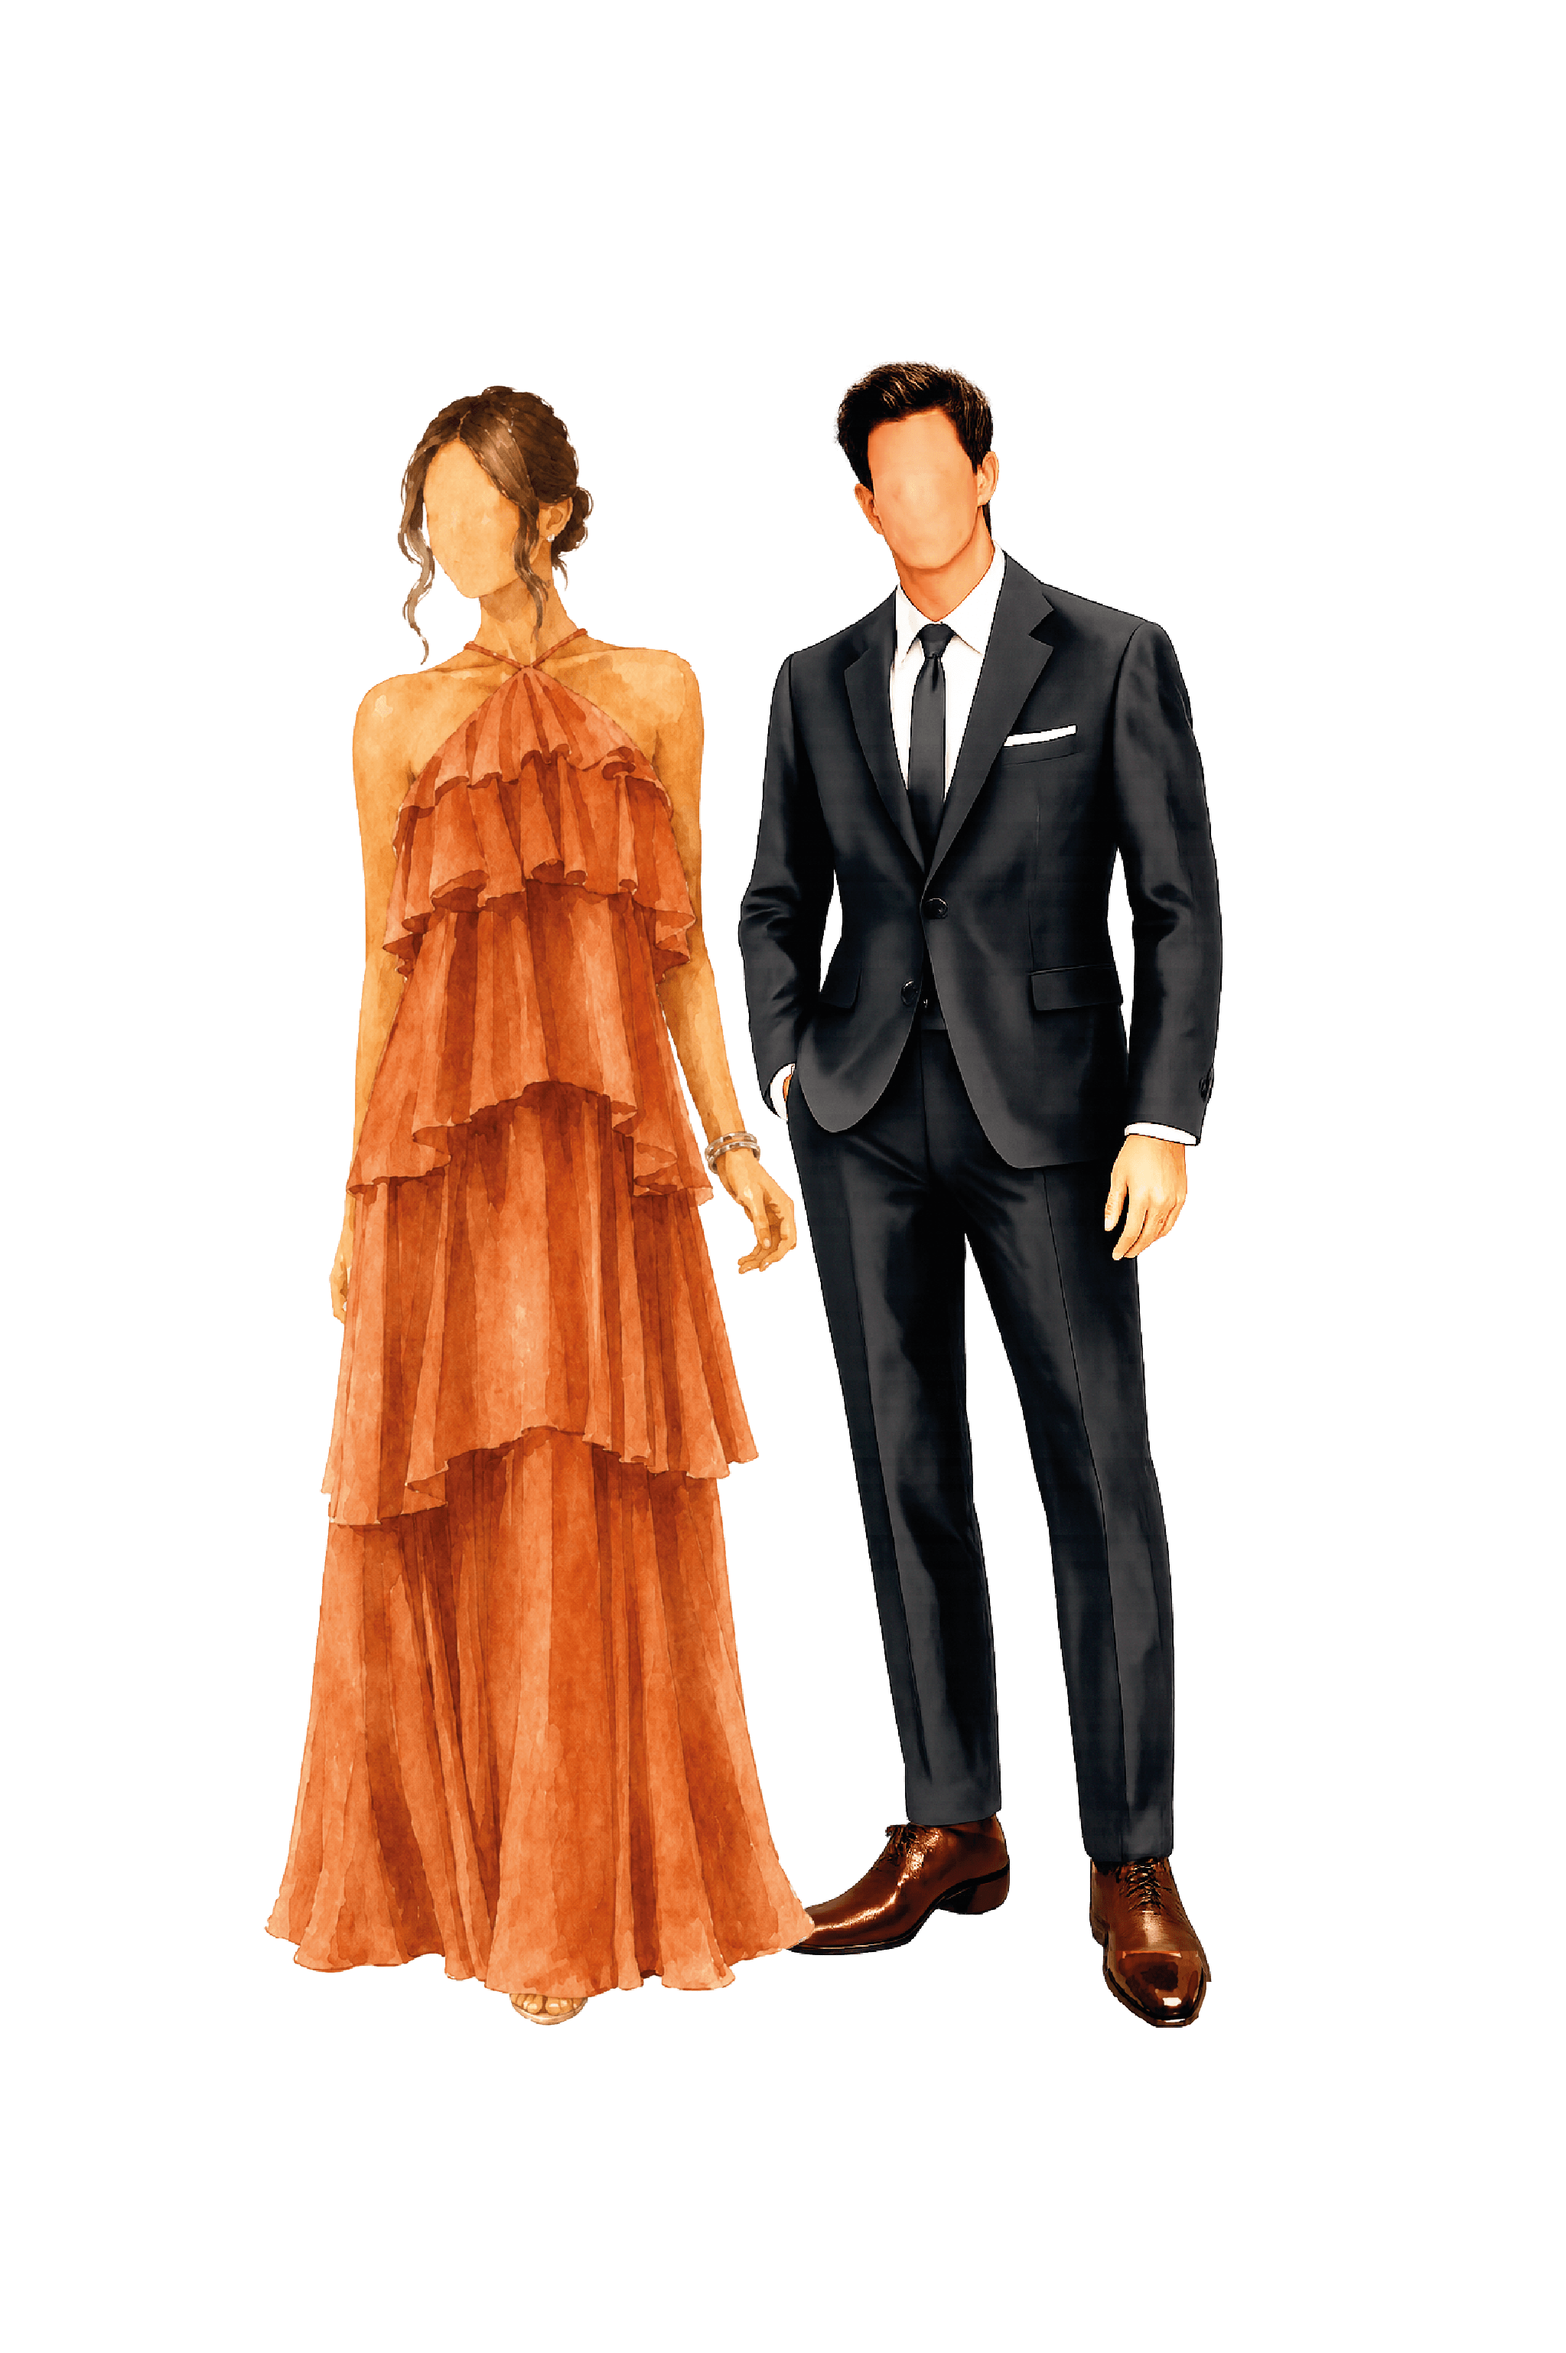
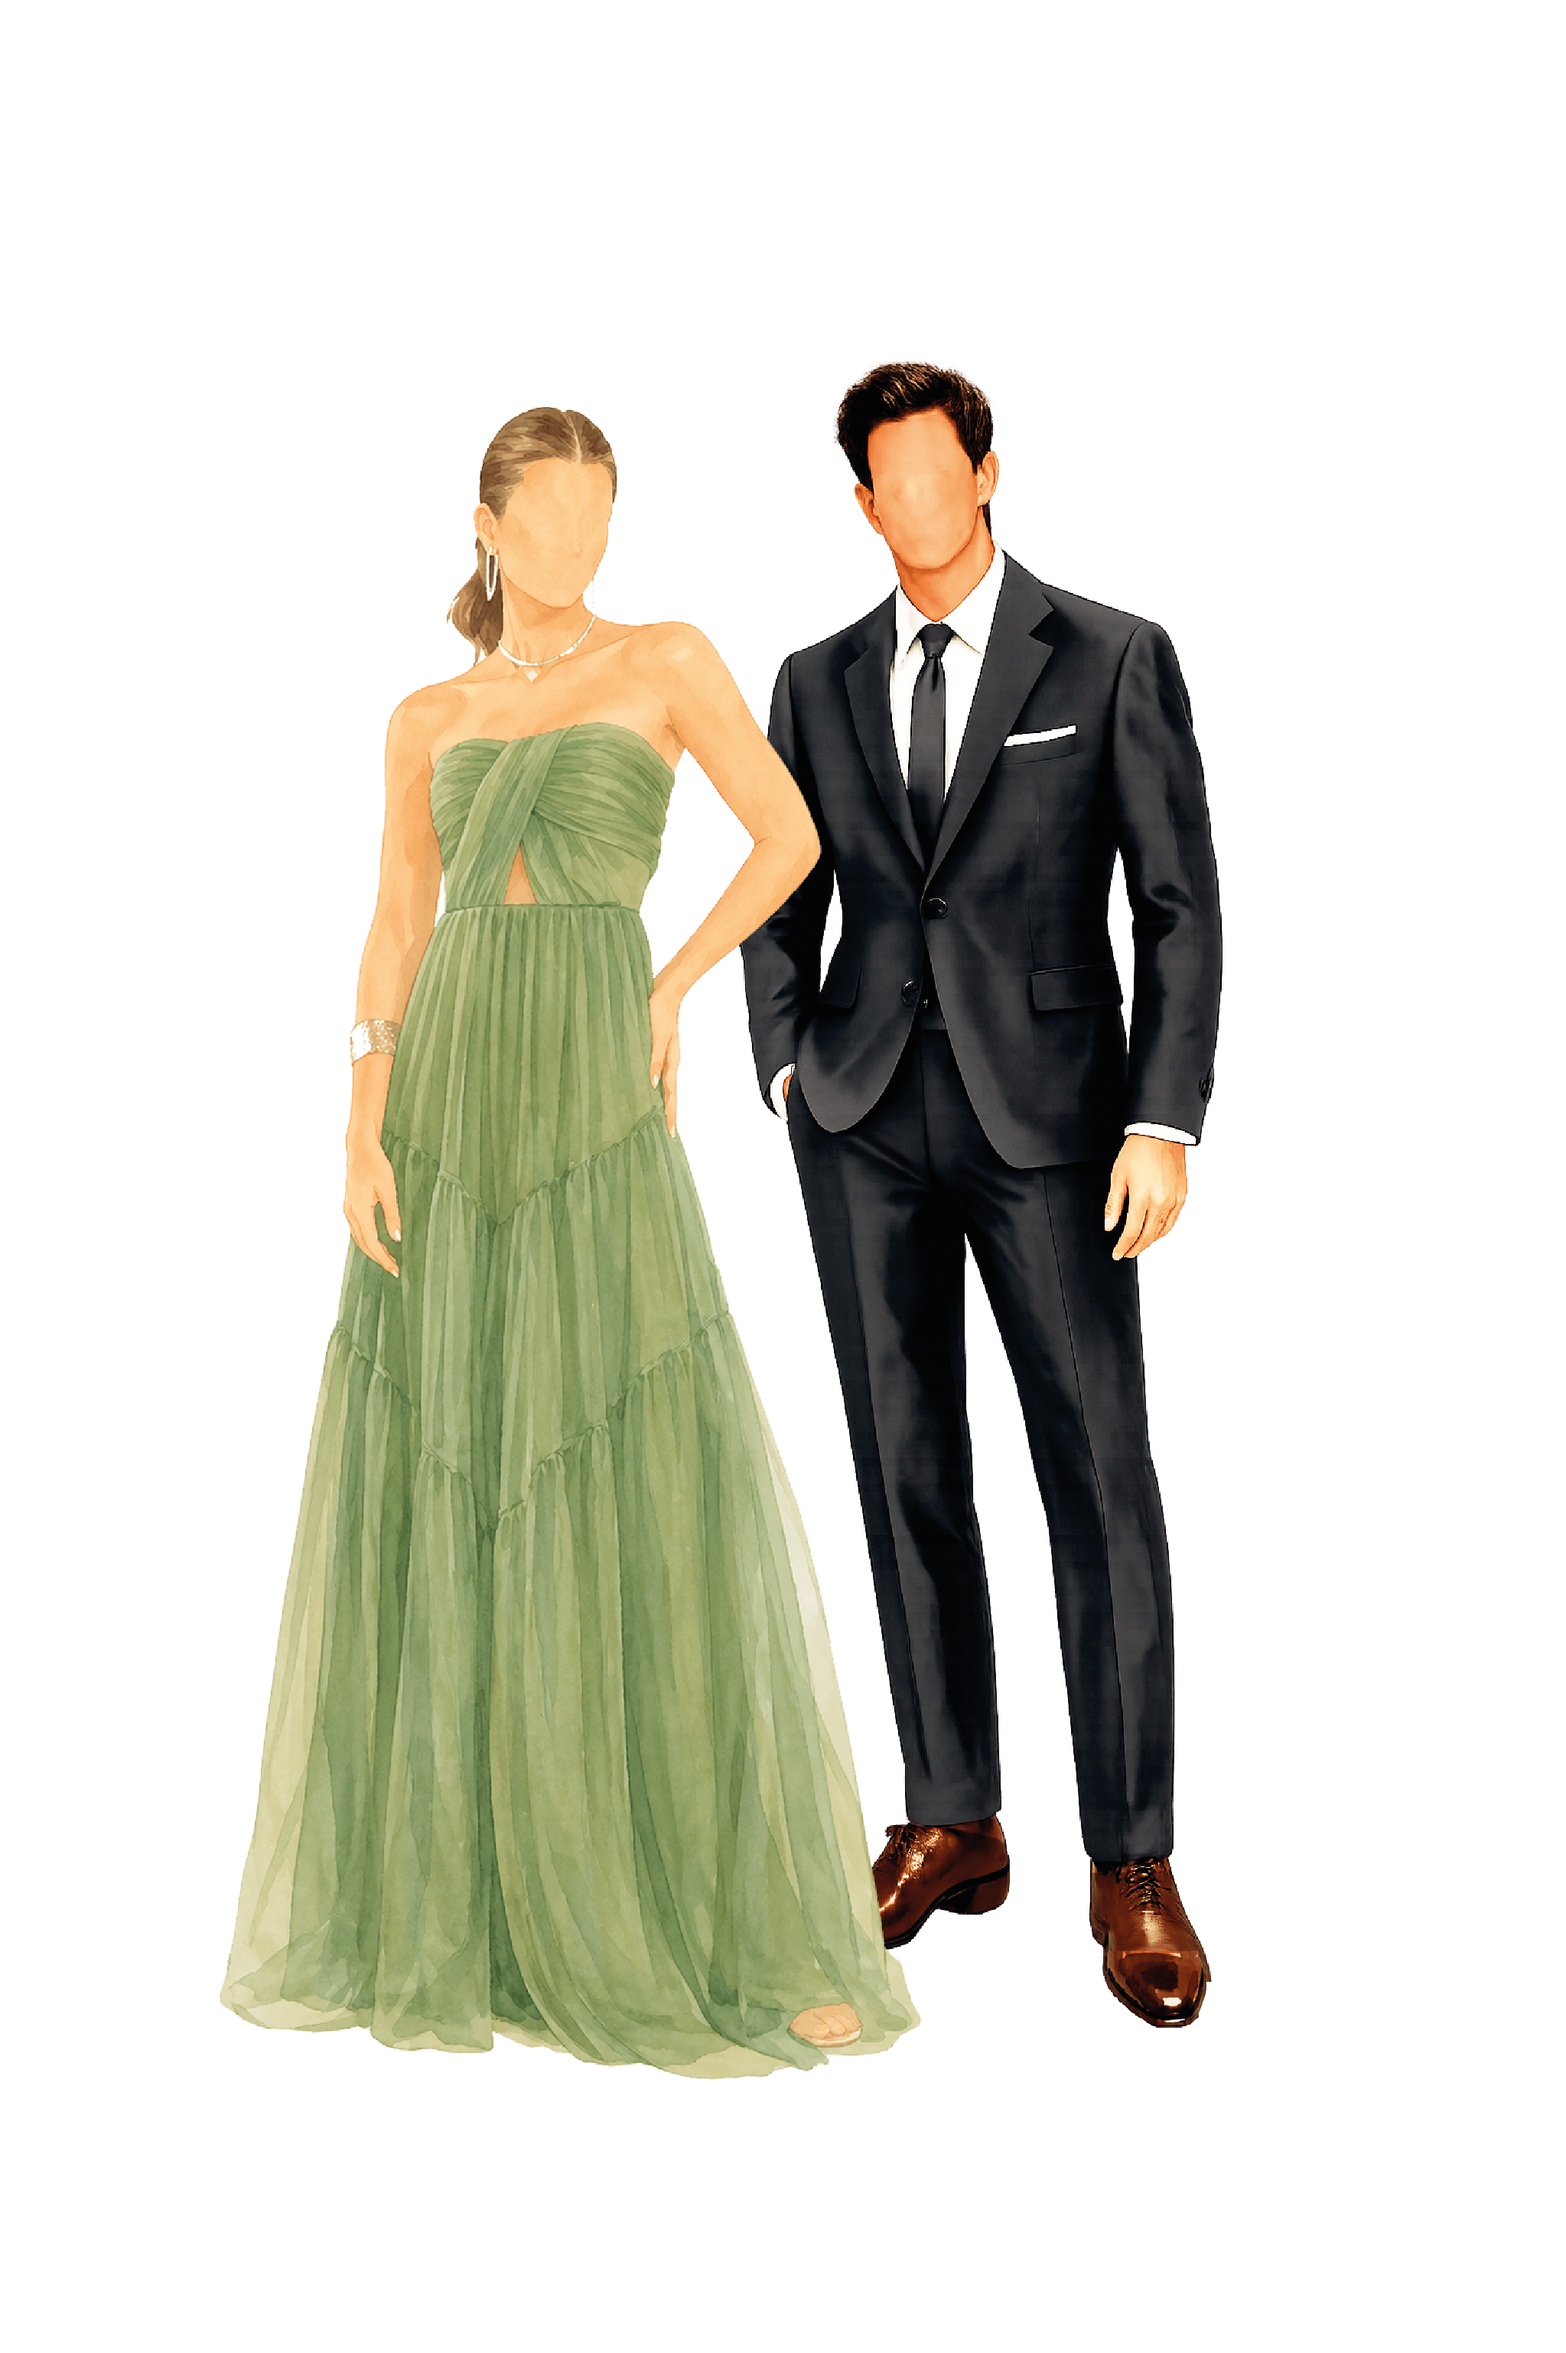
Nova capa, brasao na capa, moldura verde na lista de presentes, nova imagem de dress code e ajustes mobile

Changed region(s): [[0.1231, 0.1561, 0.5848, 0.9054]]

diff --git a/index.html b/index.html
@@ -299,9 +299,9 @@
     .hero-cover {
       position: relative;
       width: 100%;
-      height: 62vh;
+      height: 50vh;
       min-height: 340px;
-      max-height: 640px;
+      max-height: 560px;
       overflow: hidden;
       background: #3a2a1e;
     }
@@ -311,7 +311,7 @@
       content: '';
       position: absolute;
       inset: -40px;
-      background: url('assets/geral/foto-capa.jpg') center / cover no-repeat;
+      background: url('assets/geral/foto-capa.png') center / cover no-repeat;
       filter: blur(40px) brightness(0.9);
     }
 
@@ -322,7 +322,17 @@
       width: 100%;
       height: 100%;
       object-fit: cover;
-      object-position: center 92%;
+      object-position: 48% 32%;
+    }
+
+
+    /* Desktop: capa alta, com a foto horizontal preenchendo a largura */
+    @media (min-width: 992px) {
+      .hero-cover {
+        height: calc(100vh - 100px);
+        min-height: 520px;
+        max-height: 820px;
+      }
     }
 
     .hero-cover::after {
@@ -344,12 +354,16 @@
       padding-inline: var(--space-3);
     }
 
-    .hero-cover-brasao {
-      width: clamp(64px, 10vw, 96px);
+    .hero-cover > img.hero-cover-brasao {
+      position: absolute;
+      inset: 8% auto auto 50%;
+      transform: translateX(-50%);
+      z-index: 2;
+      width: clamp(88px, 22vw, 130px);
       height: auto;
-      margin: 0 auto var(--space-2);
-      filter: brightness(0) invert(1) drop-shadow(0 2px 12px rgba(0,0,0,0.45));
-      opacity: 0.95;
+      filter: none;
+      opacity: 1;
+      pointer-events: none;
     }
 
     .hero-cover-date {
@@ -3374,21 +3388,42 @@
 
     /* Espaço extra acima da seção de confirmação */
     #confirmacao { padding-top: var(--space-8) !important; }
-    /* Lista de presentes: fundo de listras com quadro branco atrás do texto */
+    /* Lista de presentes: sem fundo estampado nem quadro branco; o texto fica dentro da moldura verde */
     #confirmacao {
-      background-image: url('assets/geral/background@2x-8.png');
-      background-size: cover;
-      background-position: center;
-      background-repeat: no-repeat;
-      padding-block: var(--space-7) !important;
+      background: none;
+      padding-block: var(--space-6) !important;
     }
-    .gift-title-icon { display: block; width: clamp(80px, 12vw, 110px); height: auto; margin: 0 auto var(--space-2); }
+    .gift-title-icon { display: block; width: clamp(70px, 10vw, 100px); height: auto; margin: 0 auto var(--space-2); }
     #confirmacao .container {
-      background: #fff;
-      max-width: 760px;
-      border-radius: 16px;
-      box-shadow: 0 10px 40px rgba(0,0,0,0.10);
-      padding-block: var(--space-6);
+      max-width: 620px;
+      width: calc(100% - 24px);
+      margin-inline: auto;
+      aspect-ratio: 1200 / 1492;
+      background: url('assets/geral/molduraverde-nova-vertical.png') center / 100% 100% no-repeat;
+      padding: 17% 16%;
+      display: flex;
+      flex-direction: column;
+      justify-content: center;
+    }
+    /* Celular: conteúdo mais compacto para o botão ficar dentro da moldura */
+    @media (max-width: 767px) {
+      #confirmacao .container { padding: 15% 15% 13%; }
+      #confirmacao .gift-title-icon { width: 58px; margin-bottom: 4px; }
+      #confirmacao .section-header { margin-bottom: 0; }
+      #confirmacao .section-header .h2 { font-size: 30px; line-height: 1.15; margin-bottom: 0; }
+      #confirmacao .divider { margin: 10px auto; }
+      #confirmacao .gift-windows { margin-top: 4px; }
+      #confirmacao .gift-windows--single .gift-window-text { font-size: 15px; line-height: 1.55; margin-bottom: 14px; }
+      #confirmacao .gift-window-btn { padding: 10px 16px; font-size: 13px; max-width: 200px; }
+    }
+    /* Desktop e tablet: moldura na horizontal */
+    @media (min-width: 768px) {
+      #confirmacao .container {
+        max-width: 920px;
+        aspect-ratio: 1492 / 1200;
+        background-image: url('assets/geral/molduraverde-nova-horizontal.png');
+        padding: clamp(80px, 9.5vw, 129px) clamp(80px, 11vw, 156px);
+      }
     }
 
     /* Espaço extra acima do Dress Code (separa dos botões de confirmação) */
@@ -4038,7 +4073,8 @@
        FOTO DE CAPA
        ============================================================ -->
   <section class="hero-cover" aria-label="Foto de capa">
-    <img src="assets/geral/foto-capa.jpg" alt="Natane e Maurício" loading="eager" />
+    <img src="assets/geral/foto-capa.png" alt="Natane e Maurício" loading="eager" />
+    <img src="assets/geral/BRAS%C3%83O.png" alt="Brasão Natane e Maurício" loading="eager" class="hero-cover-brasao" />
   </section>
 
   <!-- Painel mobile fora do header (evita containing block do backdrop-filter) -->
@@ -4252,7 +4288,7 @@
         </div>
         <div class="gift-windows gift-windows--single reveal">
           <div class="gift-window">
-            <p class="gift-window-text">Sua presença já é o nosso maior presente! Mas, se desejarem nos presentear, preparamos com carinho uma lista especial para ajudar a construir o início da nossa nova vida juntos.</p>
+            <p class="gift-window-text">Sua presença já é o nosso maior presente! Mas, se desejarem nos presentear, preparamos com carinho uma lista especial.</p>
             <a class="gift-window-btn">Ver Lista <svg viewBox="0 0 24 24" width="16" height="16" fill="none" stroke="currentColor" stroke-width="1.8" stroke-linecap="round" stroke-linejoin="round" aria-hidden="true"><path d="M18 13v6a2 2 0 0 1-2 2H5a2 2 0 0 1-2-2V8a2 2 0 0 1 2-2h6"/><path d="M15 3h6v6"/><path d="M10 14 21 3"/></svg></a>
           </div>
         </div>
